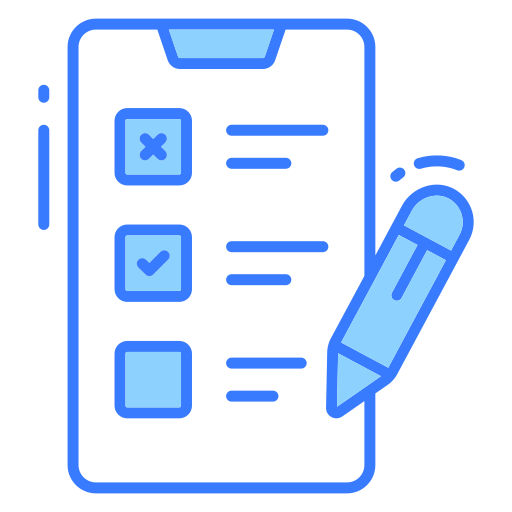
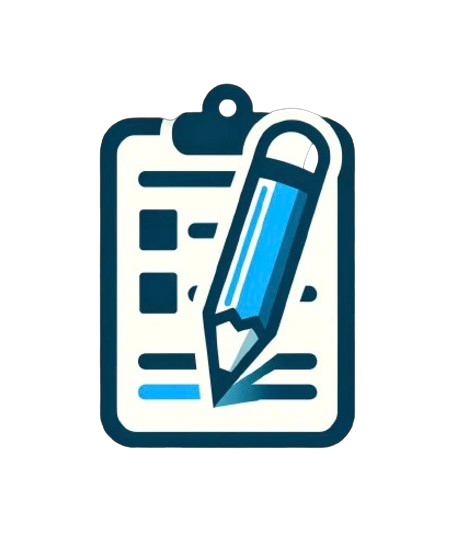
chore: 대표 로고 수정

diff --git a/src/pages/InitialPage/index.jsx b/src/pages/InitialPage/index.jsx
@@ -13,12 +13,11 @@ function InitialPage() {
         <img
           src="/assets/survey-icon.png"
           alt="survey-icon"
-          className="mt-10 mb-10 ml-7"
           width="200"
           height="200"
         />
         <button
-          className="bg-blue-500 hover:bg-blue-700 text-white font-bold py-2 px-4 rounded"
+          className="bg-sky-950 hover:bg-blue-700 text-white font-bold py-2 px-4 rounded"
           onClick={handleLogin}
         >
           <FontAwesomeIcon icon={faGoogle} className="text-xl mr-2" />

diff --git a/src/components/QuestionList/index.jsx b/src/components/QuestionList/index.jsx
@@ -9,7 +9,7 @@ import QuestionControls from "../QuestionControls";
 
 function QuestionList({ questions, setQuestions, setSelectedQuestionId }) {
   const [errorMessage, setErrorMessage] = useState("");
-  console.log(questions);
+
   function handleDeleteQuestion(questionId) {
     if (questions.length <= 1) {
       return;
